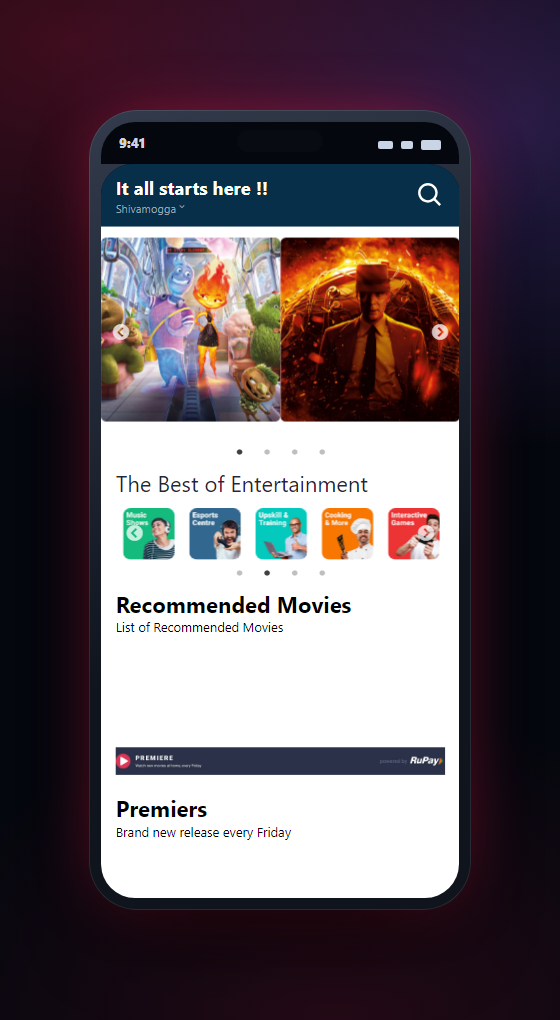
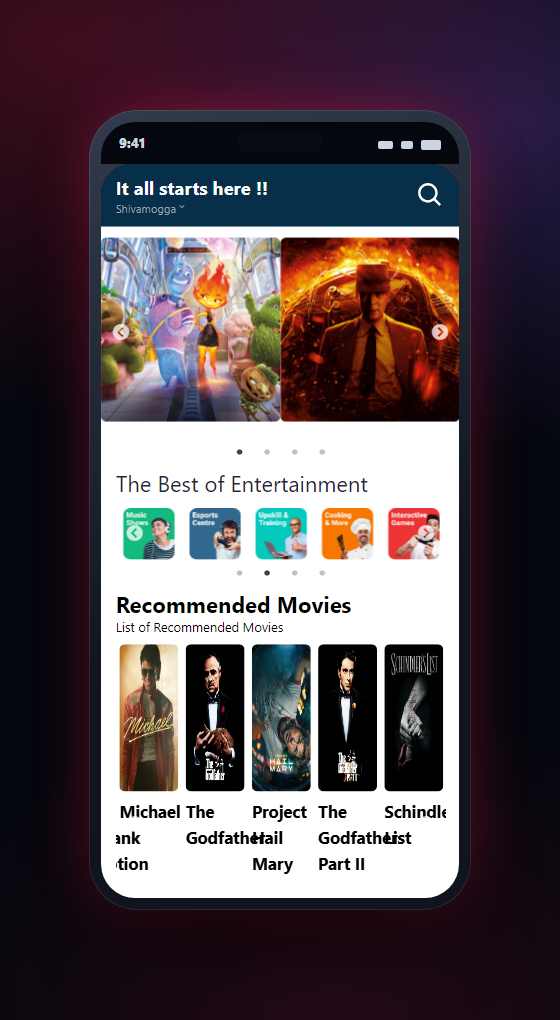
Document every feature with its own screenshot

Changed region(s): [[0.1821, 0.6078, 0.8196, 0.851]]

diff --git a/README.md b/README.md
@@ -61,6 +61,54 @@ Practice projects get interesting the moment real data arrives. This one pulls l
 
 ---
 
+## Every feature, one by one
+
+### 1 · Hero carousel
+
+<div align="center">
+  <img src="docs/screenshots/feature-hero.png" alt="The hero carousel with custom arrows" width="100%" />
+</div>
+
+A full-width react-slick carousel with custom previous and next arrows, above the search bar and city selector.
+
+### 2 · Entertainment categories
+
+<div align="center">
+  <img src="docs/screenshots/feature-entertainment.png" alt="The category card row" width="100%" />
+</div>
+
+Music shows, esports, upskilling, cooking, and interactive games as a card row — the section that gives the home page its shape before any API data arrives.
+
+### 3 · Poster rails from TMDB
+
+<div align="center">
+  <img src="docs/screenshots/feature-recommended.png" alt="The recommended movies rail" width="100%" />
+</div>
+
+Recommended titles, each rail fed by its own TMDB endpoint — top rated, popular, and upcoming — through one reusable `PosterSlider`.
+
+<div align="center">
+  <img src="docs/screenshots/feature-premier.png" alt="The premieres rail on its dark band" width="100%" />
+</div>
+
+Premieres sit on their own dark band with the RuPay banner, the same slider component with `isDark` flipped.
+
+### 4 · Movie detail page
+
+<div align="center">
+  <img src="docs/screenshots/feature-movie.png" alt="A movie detail page with hero and rent options" width="100%" />
+</div>
+
+`/movie/:id` loads the film by id: poster, rating, languages, runtime, genres, and the rent options. The selected film travels through React context rather than being refetched by each child.
+
+<div align="center">
+  <img src="docs/screenshots/feature-movie-about.png" alt="Overview, offers, and similar titles" width="100%" />
+</div>
+
+Below the hero: the overview, the applicable offers, then rails for recommended and similar titles.
+
+---
+
 ## Tech stack
 
 | Layer | Technology |
